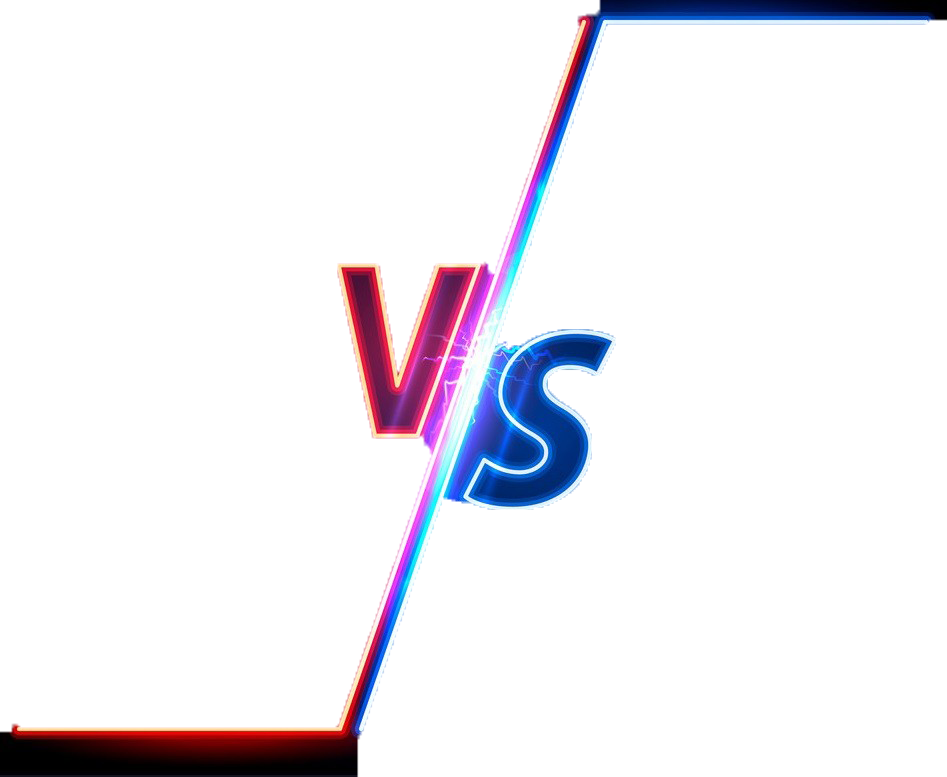
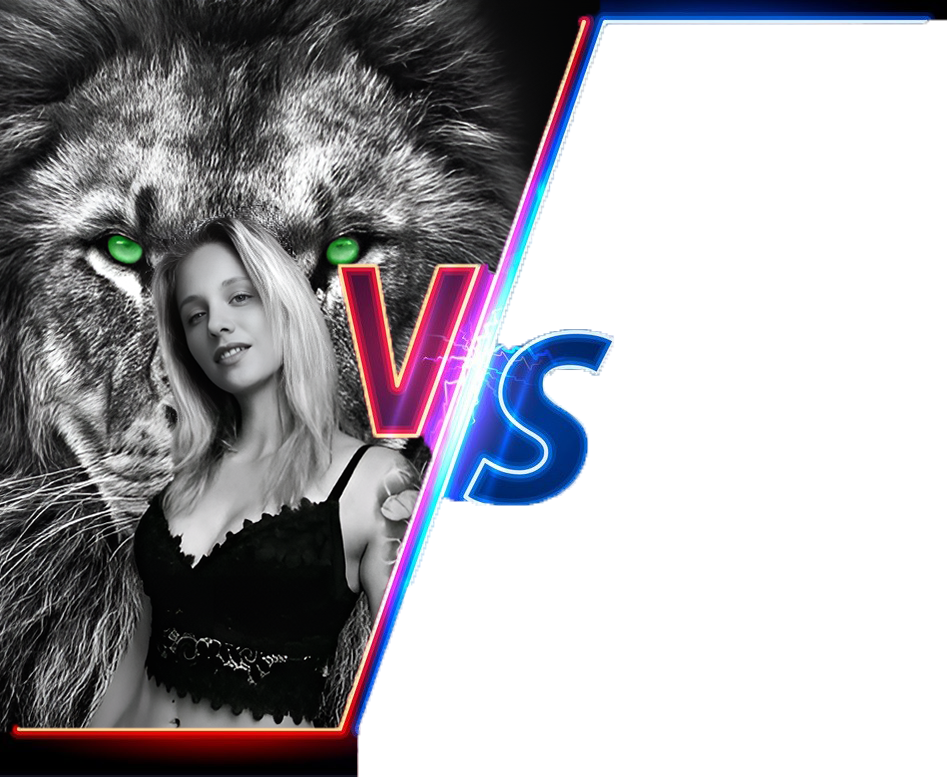
event edding

diff --git a/src/app/event/event.component.html b/src/app/event/event.component.html
@@ -38,8 +38,7 @@
                     Tragt euch gerne Kostenlos im Event ein
                 </a>
             </span>
-            <!-- <img src="assets/img/eventImg/"> -->
-            <span>Bild Kommt noch!</span>
+            <img src="assets/img/eventImg/AgenturTunier.png">
         </div>
 
 
